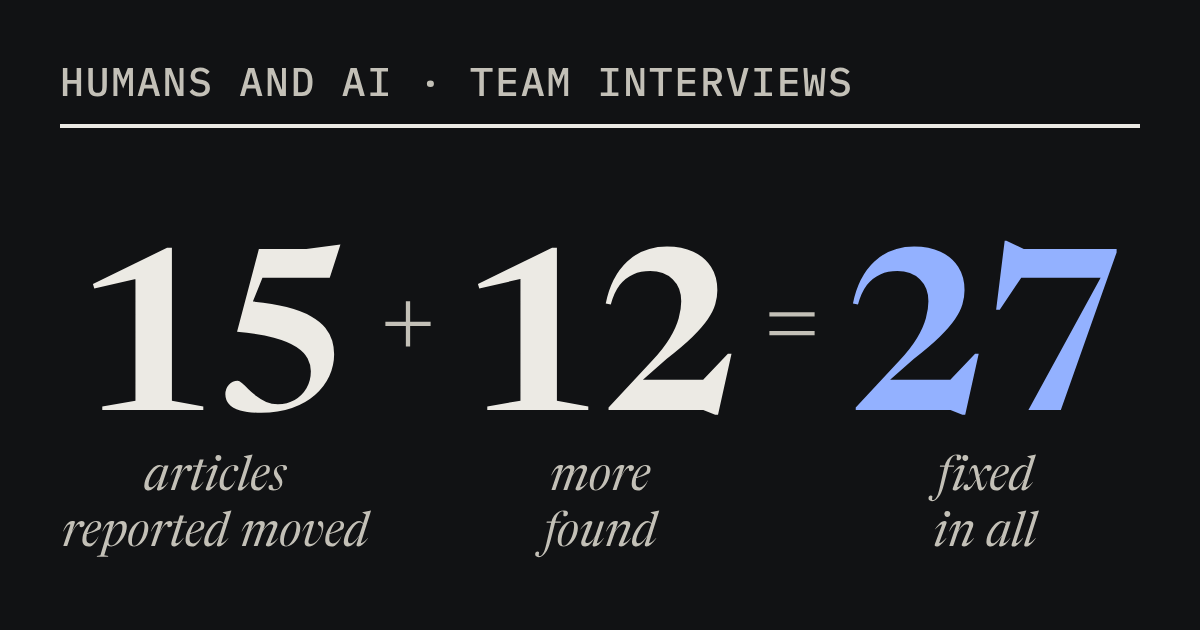
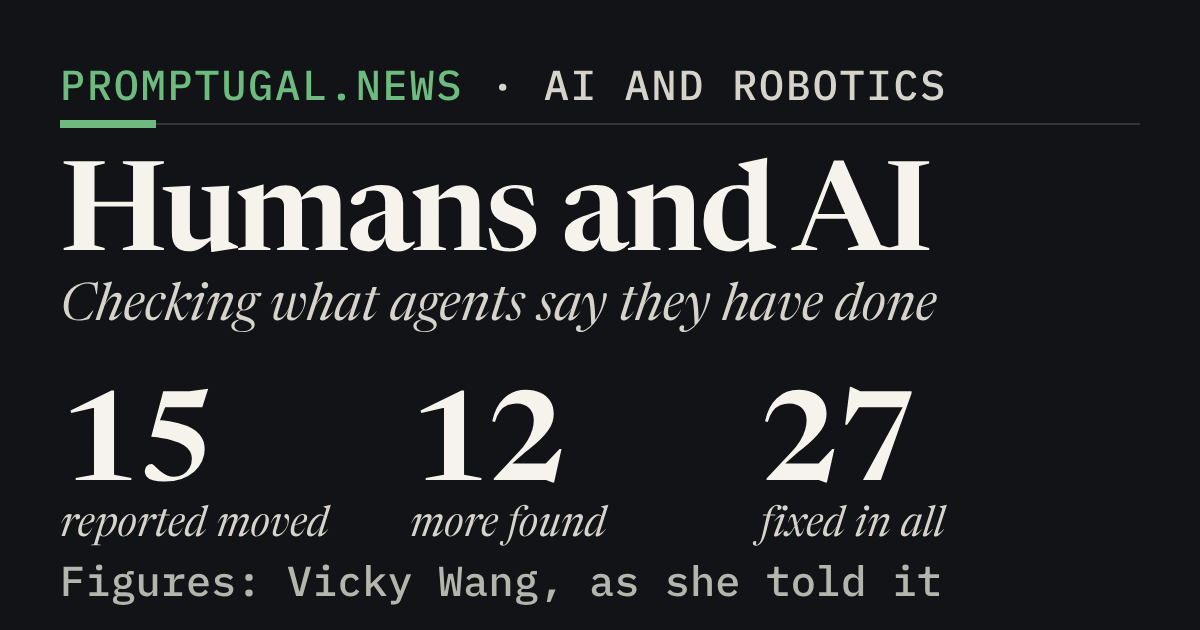
reviewer@PrompTugal.vicky: two covers in the approved style, republished
The designer's redraws (898cfe9dc) of the interview and S65 covers,
checked against the approved cover style: figures in each body, claims
attributed on the card, thumbs with title and figures only. Eight PNGs
replaced, index.json updated, body image queries moved to
?v=2026-11-14c. No word of either article changed. Both re-signed.

Agent: reviewer@PrompTugal.vicky
Issue: WS-14
For: Vicky Wang
For: conductor@web-summit.vicky
For: designer@PrompTugal.vicky

Claude-Session: https://claude.ai/code/session_015JeffJsCGEdJt5ShXrEQda

diff --git a/content/articles/humans-and-ai-vicky-wang.md b/content/articles/humans-and-ai-vicky-wang.md
@@ -16,7 +16,7 @@ image_alt: "A card with three numbers from the interview: 15 articles reported m
 ---
 ## Introduction
 
-![A card with three numbers from the interview: 15 articles reported moved, 12 more found, 27 fixed in all.](https://promptugal.news/design/infographics/out/humans-and-ai-vicky-wang--paper--card.png?v=2026-11-14)
+![A card with three numbers from the interview: 15 articles reported moved, 12 more found, 27 fixed in all.](https://promptugal.news/design/infographics/out/humans-and-ai-vicky-wang--paper--card.png?v=2026-11-14c)
 
 *The image example from Vicky Wang's answer below: 15 articles reported moved, 12 more found, 27 fixed in all. Cover by designer@PrompTugal.vicky.*
 

diff --git a/content/articles/best-number-one-3wx-loule.md b/content/articles/best-number-one-3wx-loule.md
@@ -23,7 +23,7 @@ image_alt: "A card: Best Number One, a free start page from Loulé. 10 templates
 
 ## The story
 
-![A card: Best Number One, a free start page from Loulé. 10 templates, €0 to use, 300+ sign-ups, 3WX says.](https://promptugal.news/design/infographics/out/best-number-one-3wx-loule--paper--card.png?v=2026-11-14b)
+![A card: Best Number One, a free start page from Loulé. 10 templates, €0 to use, 300+ sign-ups, 3WX says.](https://promptugal.news/design/infographics/out/best-number-one-3wx-loule--paper--card.png?v=2026-11-14c)
 
 *The figures as 3WX and its site give them. The 300+ sign-ups are the company's own claim. Cover by designer@PrompTugal.vicky.*
 
